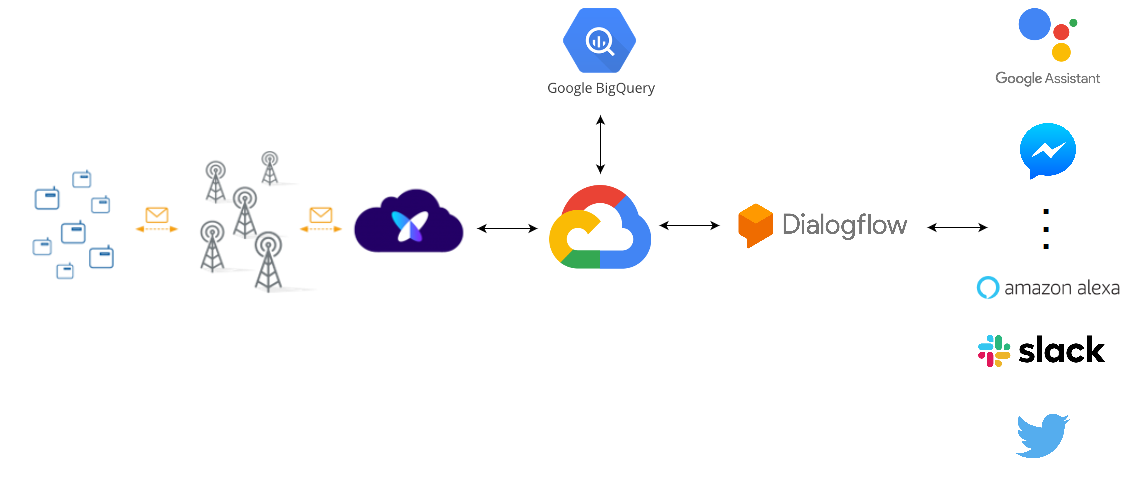
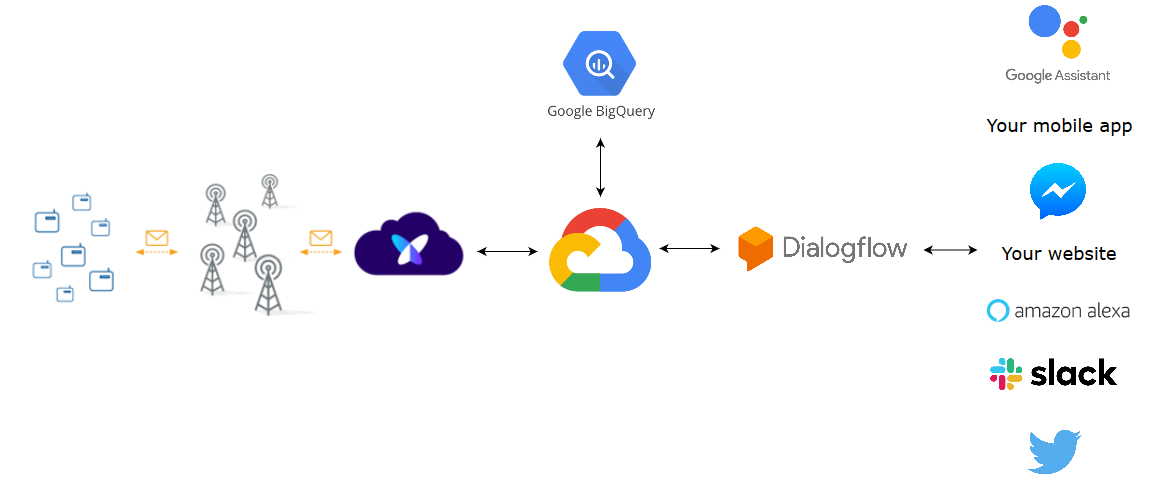
rework

diff --git a/README.md b/README.md
@@ -1,48 +1,48 @@
 # Accessing Sigfox data through Dialogflow
 
 ## Introduction
-Since February 2019, Google Cloud Platform can be officialy integrated with Sigfox Backend. 
 
-Basically, it means that it is now possible to push the data generated from Sigfox enabled devices up to Google Cloud Platform. 
-This article presents how to leverage on this integration by giving users new ways to interact with this data such as voice apps and chatbots, powered by AI. Thus on several and heterogenous platforms like your own website, mobile app, the Google Assistant, Amazon Alexa, Facebook Messenger, and many others..
+Since February 2019, Google Cloud Platform can be officialy integrated with Sigfox Backend. Basically, it means that it is now possible to push the data generated from Sigfox enabled devices up to Google Cloud Platform. 
 
-## Overview
+This article presents how to leverage on this integration by giving users new ways to interact with this data such as voice apps and chatbots, powered by AI. This, on several and heterogenous platforms like your own website, mobile app, the Google Assistant, Amazon Alexa, Facebook Messenger, and many others..
 
-![Image](/img/Google_Assistant_Scheme.png)
+Here the goal is show how the data measured by a [Sens'it](https://build.sigfox.com/sensit-for-developers) can be exposed via DialogFlow.
 
-As explained in the related tutorials: [Integrating Sigfox IoT network with Google Cloud Platform](https://cloud.google.com/community/tutorials/sigfox-gw) and [Using Sigfox Sens'it with GCP](https://cloud.google.com/community/tutorials/sigfox-sensit), you can store the data sent by your Sigfox devices into Google Big Query. Therefore, this data can be queried by Google Assistant through DialogFlow. 
+![Image](img/Google_Dialogflow_Scheme.png)
+
+Regarding the previous integration, you can check the related tutorials: [Integrating Sigfox IoT network with Google Cloud Platform](https://cloud.google.com/community/tutorials/sigfox-gw) and [Using Sigfox Sens'it with GCP](https://cloud.google.com/community/tutorials/sigfox-sensit).
 
 ## DialogFlow Implementation
 
-DialogFlow is an interface that allow you to recognize sentences sent by the user and to configure appropriate *actions* based on some configuration + machine learning. 
+DialogFlow is a Google-owned interface of human–computer interaction that allow you to recognize sentences sent by the user and select appropriate *actions* based on configuration and machine learning. 
 
 ### Sigfox Agent
 
-In Dialogflow, the basic flow of conversation involves these steps:
+In Dialogflow, the basic stream of a conversation involves these steps:
 
     - The user gives inputs
     - Your Dialogflow agent parses that input
     - Your agent returns a response to the user
 
-To define how conversations work, you create **intents** in your agent that map user inputs to responses.
+To define how conversations work, you create **intents** within your agent that map user inputs to responses.
+When defining a new agent, you will get by default the **Default Welcome intent** and the **Default Fallback Intent**.
 
-When defining a new agent, you will get by default the **Default Welcome intent** and the **Default Fallback Intent** that have respectively the responsability to handle the user welcome and fallback requests.
+So, we need to create the **Sigfox Intent** that will handle requests about Sigfox.
 
-Then, we need to create the **Sigfox Intent** that will handle requests about Sigfox.
+### Sigfox Intent Configuration
 
-### Sigfox Intent
-
-#### Intent Configuration
-
-I will not go in detail regarding intent configuration since this has already been well explained in several places. In my example, I have just configured the intent to handle a conversation and extract a data type: *temperature* or *humidity*
-
-Also, Google allows to write code that will be triggered at a certain point during he Intent processing. This is called **Fulfillment**. Here below is how it works:
-![Image](/img/dialogflow_agent.png)
-That's said, it means that the last thing we have to do is to write the portion of code that will ask the data to big query in order deliver it to our Sigfox Intent.
+Intent configuration is well explained in many articles. Feel free to check these out for instance [here](https://medium.com/swlh/chapter-8-how-to-build-a-google-home-app-with-dialogflow-environment-setup-3547993e99a4).
+In my example, I have configured the Sigfox intent to ask the user to chose a data type between *temperature* and *humidity*. This parameter will be used then to filter the answer.
 
 ### Fulfillment
 
-#### Define constants
+Google allows to write code that will be triggered at a certain moment during the Intent processing. This is called **Fulfillment**. Here below is an overview of how it works:
+![Image](img/dialogflow_agent.png)
+That said, it means that the last thing we have to do is to write the portion of code that will ask the data to Google Big Query, filter it and finally deliver it to our Sigfox Intent.
+
+#### Constants definition
+
+Like in every project, you need to define constants. Here they are:
 
 ```javascript
 'use strict';
@@ -58,6 +58,13 @@ process.env.DEBUG = 'dialogflow:debug';
 ```
 
 #### Implement the function that will query GCP
+
+1. The fulfillment will query BigQuery database and select the last line based on the [*Sequence Number*](https://support.sigfox.com/docs/sequence-number:-general-knowledge).
+Make sure to fill in the query parameters with your Google Cloud Platform information.
+
+2. Depending on which data type has been chosen by the user, fulffilment will filter the corresponding field (ie temperature or humidity).
+
+3. The fulffilment will deliver the answer to the Sigfox Intent.
 
 ```javascript
 function getDataFromBigQuery(agent) {
@@ -86,13 +93,10 @@ function getDataFromBigQuery(agent) {
             });
     }
 ```
-1. The fulfilment will query BigQuery database and select the last line based on the *Sequence Number*.
-
-2. Depending on which data type has been chosen by the user, fulfilment will chose the corresponding field ie temperature or humidity.
-
-3. Fulfilment will add it to the answer
 
 #### Implement fulfillment base block
+
+This is the base block implemented to map the Sigfox Intent and the method triggering.  
 
 ```javascript
 exports.dialogflowFirebaseFulfillment = functions.https.onRequest((request, response) => {
@@ -102,7 +106,7 @@ exports.dialogflowFirebaseFulfillment = functions.https.onRequest((request, resp
     agent.handleRequest(intentMap);
 });
 ```
-This is the base block implemented to map the Sigfox Intent and the method triggering.  
+
 
 
 
